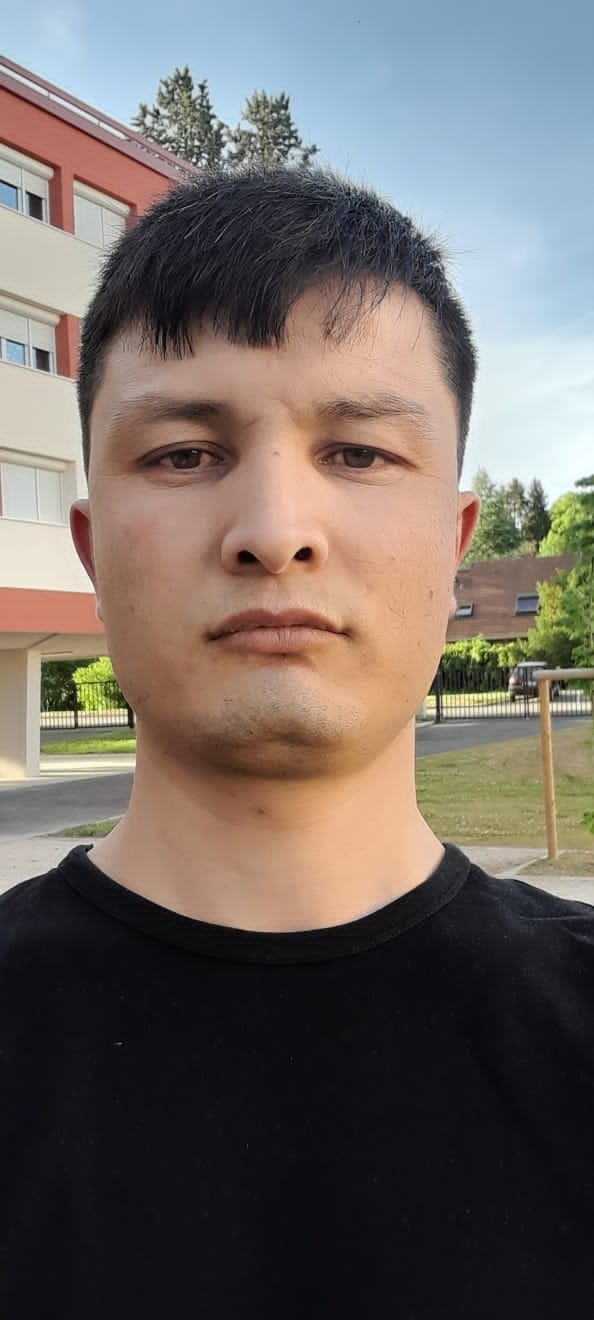
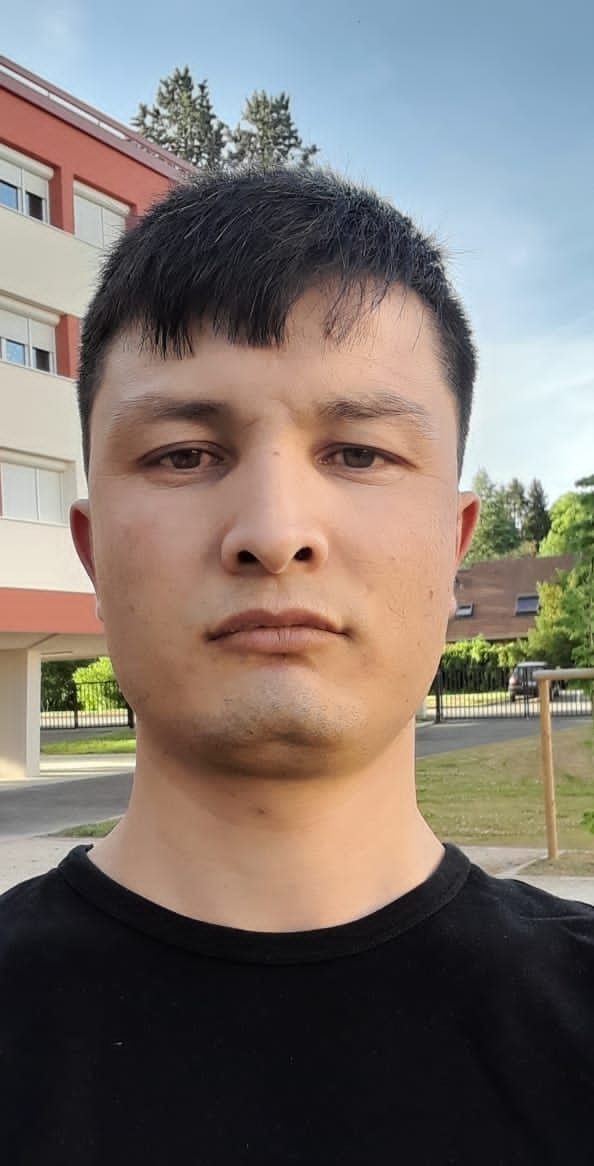
founder container photo cut problem solved

diff --git a/src/components/site/founder-section.tsx b/src/components/site/founder-section.tsx
@@ -82,7 +82,7 @@ export function FounderSection() {
                     src="/jaafar-najafi-rad.jpg"
                     alt="Jaafar Najafi Rad - Founder of Haal Lab"
                     fill
-                    className="object-cover"
+                    className="object-cover object-top"
                     sizes="(max-width: 768px) 100vw, (max-width: 1200px) 50vw, 40vw"
                     priority
                   />